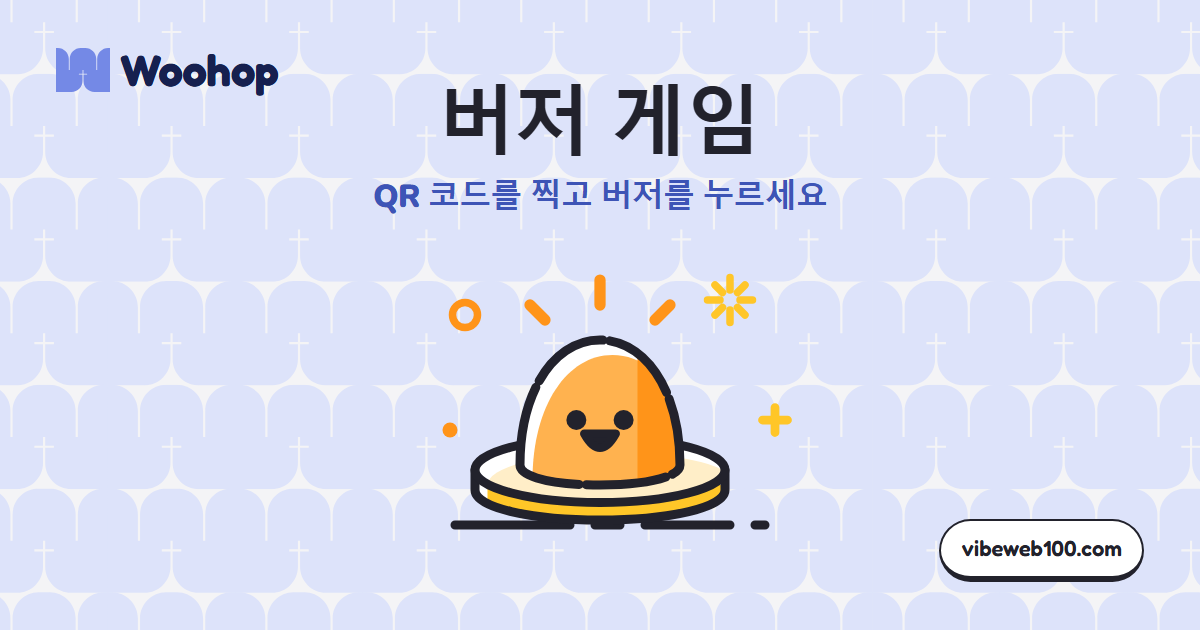
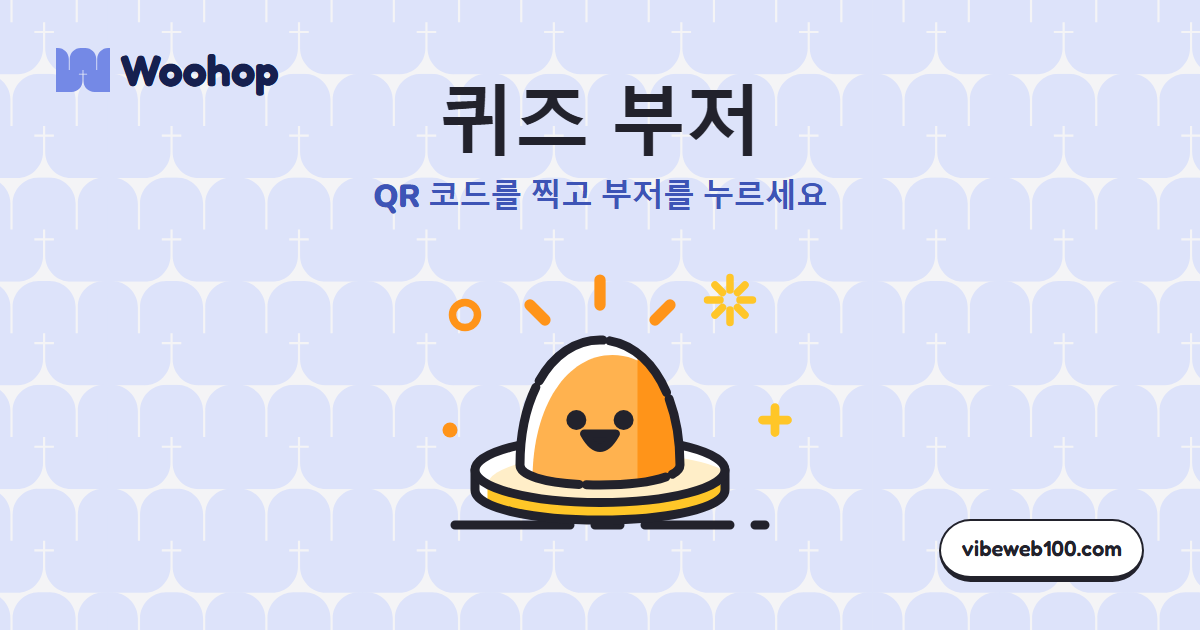
feat(seo): 日韓名稱照當地叫法（밸런스 게임、퀴즈 부저、爆弾ゲーム），倒放／竹筍／古今東西／錄音機標題補上常搜的字

Changed region(s): [[0.37, 0.1206, 0.6475, 0.2714], [0.4933, 0.2714, 0.5242, 0.3317]]

diff --git a/apps/buzzer/app/locales/ko.js b/apps/buzzer/app/locales/ko.js
@@ -6,12 +6,12 @@
 export default {
   "htmlLang": "ko",
   "ogLocale": "ko_KR",
-  "seoTitle": "버저 게임｜QR 코드만 찍으면 바로 시작, 설치·가입 불필요 - Woohop",
-  "seoDesc": "모임, 수업, 사내 행사에서 쓰는 온라인 버저입니다. 진행자가 방을 만들어 QR 코드를 공유하면 모두 휴대폰으로 스캔하고 닉네임만 입력해 참여할 수 있고, 누른 순서가 실시간으로 표시됩니다. 다운로드도 계정도 필요 없이 무료로 사용하세요.",
-  "navTitle": "버저 게임",
+  "seoTitle": "퀴즈 부저｜QR 코드만 찍으면 바로 시작, 설치·가입 불필요 - Woohop",
+  "seoDesc": "모임, 수업, 사내 행사에서 쓰는 온라인 부저입니다. 진행자가 방을 만들어 QR 코드를 공유하면 모두 휴대폰으로 스캔하고 닉네임만 입력해 참여할 수 있고, 누른 순서가 실시간으로 표시됩니다. 다운로드도 계정도 필요 없이 무료로 사용하세요.",
+  "navTitle": "퀴즈 부저",
   "navRules": "플레이 방법",
-  "heroTitle": "버저 게임: QR 코드를 찍고 버저를 누르세요",
-  "heroDesc": "모임, 수업, 사내 행사를 위한 버저입니다. 진행자가 방을 열면 나머지는 QR 코드만 스캔하면 되고, 누른 순서가 바로 표시됩니다. 설치할 앱도, 만들 계정도 없습니다.",
+  "heroTitle": "퀴즈 부저: QR 코드를 찍고 부저를 누르세요",
+  "heroDesc": "모임, 수업, 사내 행사를 위한 부저입니다. 진행자가 방을 열면 나머지는 QR 코드만 스캔하면 되고, 누른 순서가 바로 표시됩니다. 설치할 앱도, 만들 계정도 없습니다.",
   "createHeading": "방 만들기",
   "maxPlayersLabel": "예상 인원",
   "maxPlayersHint": "2~50명, 진행자 본인은 제외",
@@ -21,8 +21,8 @@ export default {
   "codeLabel": "방 코드",
   "joinButton": "참여",
   "rulesLinkText": "처음이신가요? 시작하는 방법 보기 →",
-  "rulesSeoTitle": "버저 게임 하는 법｜진행자와 참가자 사용 안내 - Woohop",
-  "rulesSeoDesc": "버저 게임 전체 안내: 진행자가 방을 만들고 문제를 내고 진행하는 방법, 참가자가 QR 코드로 들어오는 방법, 인원 제한과 새로고침·연결 끊김 시의 동작까지 설명합니다.",
+  "rulesSeoTitle": "퀴즈 부저 하는 법｜진행자와 참가자 사용 안내 - Woohop",
+  "rulesSeoDesc": "퀴즈 부저 전체 안내: 진행자가 방을 만들고 문제를 내고 진행하는 방법, 참가자가 QR 코드로 들어오는 방법, 인원 제한과 새로고침·연결 끊김 시의 동작까지 설명합니다.",
   "rulesHeading": "플레이 방법",
   "rulesFacts": [
     [
@@ -42,7 +42,7 @@ export default {
   "rulesHowSteps": [
     "진행자가 방을 만들면 화면에 방 번호와 QR 코드가 나와요.",
     "모두 휴대폰으로 QR 코드를 찍고 아바타와 닉네임을 정해 입장하면, 진행자가 「게임 시작」을 눌러요.",
-    "진행자가 문제를 읽고 「버저 시작」을 누르면 3초 카운트다운 뒤에 모두의 버튼에 불이 들어와요.",
+    "진행자가 문제를 읽고 「부저 시작」을 누르면 3초 카운트다운 뒤에 모두의 버튼에 불이 들어와요.",
     "누른 순서대로 순위가 매겨져요. 가장 빠른 사람이 답하면 진행자가 「초기화 / 다음 문제」를 눌러요."
   ],
   "rulesLeadHeading": "진행 요령",
@@ -50,10 +50,10 @@ export default {
   "rulesLeadSteps": [
     "진행자 화면을 크게 띄우면 다 같이 순위를 보면서 더 신나요.",
     "문제를 미리 입력하고 「문제 보여주기」를 누르면 모두의 휴대폰에 문제가 떠요.",
-    "작은 상품이나 점수 규칙을 걸면 버저 싸움이 훨씬 치열해져요."
+    "작은 상품이나 점수 규칙을 걸면 부저 싸움이 훨씬 치열해져요."
   ],
   "rulesBack": "← 게임으로 돌아가기",
-  "rulesIntro": "진행자가 문제를 내면 모두의 휴대폰이 버저가 됩니다. 누르는 순서대로 바로 순위가 나와서 누가 제일 빨랐는지 한눈에 보여요.",
+  "rulesIntro": "진행자가 문제를 내면 모두의 휴대폰이 부저가 됩니다. 누르는 순서대로 바로 순위가 나와서 누가 제일 빨랐는지 한눈에 보여요.",
   "joinTitle": "방 참여",
   "nicknameLabel": "닉네임",
   "avatarLabel": "아바타 고르기",
@@ -91,13 +91,13 @@ export default {
   "kickedTitle": "진행자가 회원님을 방에서 내보냈습니다",
   "kickedDesc": "실수라면 진행자에게 말씀하세요. 방 코드를 다시 입력하면 들어올 수 있습니다.",
   "lobbyWaitTitle": "진행자가 시작하기를 기다리는 중",
-  "lobbyWaitDesc": "들어온 사람이 아래에 표시됩니다. 진행자가 「게임 시작」을 누르면 버저가 열립니다.",
+  "lobbyWaitDesc": "들어온 사람이 아래에 표시됩니다. 진행자가 「게임 시작」을 누르면 부저가 열립니다.",
   "roomStartedTitle": "게임이 이미 시작됐습니다",
   "roomStartedDesc": "진행자가 이미 게임을 시작해서 이 방은 새로 들어올 수 없습니다. 진행자에게 확인해 보세요.",
   "questionLabel": "문제",
-  "questionPlaceholder": "여기에 문제를 입력하고, 읽어 준 다음 「버저 시작」을 누르세요",
+  "questionPlaceholder": "여기에 문제를 입력하고, 읽어 준 다음 「부저 시작」을 누르세요",
   "showQuestionButton": "문제 보여주기",
-  "startButton": "버저 시작",
+  "startButton": "부저 시작",
   "resetButton": "초기화 / 다음 문제",
   "rankingHeading": "누른 순서",
   "noBuzzYet": "아직 아무도 누르지 않았습니다",
@@ -105,11 +105,11 @@ export default {
   "waitingDesc": "휴대폰을 들고 기다리세요. 문제는 여기에 표시됩니다.",
   "questionHeading": "문제",
   "readyTitle": "준비하세요",
-  "readyDesc": "진행자가 다 읽으면 버저를 누르세요.",
+  "readyDesc": "진행자가 다 읽으면 부저를 누르세요.",
   "buzzButton": "누르기!",
   "buzzedTitle": "눌렀습니다. 결과를 기다리는 중",
   "notBuzzedTitle": "아직 누르지 않았습니다",
-  "buzzClosedHint": "이번 판은 아직 버저가 열리지 않았습니다",
+  "buzzClosedHint": "이번 판은 아직 부저가 열리지 않았습니다",
   "countdownTitle": "준비",
   "countdownDesc": "카운트다운이 끝나면 누를 수 있습니다",
   "hostCountdown": "{n} 후 시작",
@@ -128,7 +128,7 @@ export default {
   "roomExpiredDesc": "오랫동안 사용하지 않아 자동으로 정리됐습니다. 진행자에게 새 방을 만들어 달라고 하세요.",
   "errorTitle": "문제가 발생했습니다",
   "errorDesc": "페이지를 새로고침하고 다시 시도해 주세요.",
-  "backHome": "버저 홈으로",
+  "backHome": "부저 홈으로",
   "createFailed": "방을 만들지 못했습니다. 다시 시도해 주세요.",
   "joinCodeInvalid": "방 코드는 영문·숫자 네 자리입니다. 다시 확인해 주세요.",
   "nicknameRequired": "먼저 닉네임을 입력해 주세요."

diff --git a/apps/warmup/games/bomb/app/locales/ja.js b/apps/warmup/games/bomb/app/locales/ja.js
@@ -6,20 +6,20 @@ export default {
   htmlLang: 'ja',
   ogLocale: 'ja_JP',
 
-  seoTitle: '時限爆弾｜スマホ1台を回すアイスブレイク。爆発したときに持っていた人の負け',
+  seoTitle: '爆弾ゲーム｜スマホ1台を回すアイスブレイク。爆発したときに持っていた人の負け',
   seoDesc:
     '小グループ、ユースグループ、家族の集まり向けのアイスブレイク。スマホ1台がそのまま爆弾になります。画面に出たお題をその場でやって、「完了」を押して隣の人へ。いつ爆発するかは誰にも分かりません。持っていた人がそのラウンドの負けです。質問とアクション、合わせて90問を収録。自分たちのお題も追加できます。ダウンロードも登録も不要、ページを開くだけ。',
-  rulesSeoTitle: '時限爆弾 — 遊び方',
+  rulesSeoTitle: '爆弾ゲームのルール・遊び方',
   rulesSeoDesc:
     '爆発までの時間の決め方、お題のカテゴリーの選び方、自分でお題を足す方法、そして始める前に言っておく三つのこと。',
 
-  navTitle: '時限爆弾',
+  navTitle: '爆弾ゲーム',
   navRules: '遊び方',
   rulesLinkText: '初めて？　まずはこちら →',
   langSwitchLabel: '言語を切り替える',
   themeToggleLabel: 'ライト／ダークを切り替える',
 
-  heroTitle: '時限爆弾：お題をやったら、すぐ隣へ',
+  heroTitle: '爆弾ゲーム：お題をやったら、すぐ隣へ',
   heroDesc:
     '全員でスマホ1台。それがそのまま爆弾です。お題が出たら、持っている人がその場でやって「完了」を押し、隣の人に渡す。いつ爆発するかは誰にも分かりません。そのとき持っていた人が、このラウンドの負けです。',
 
@@ -54,7 +54,7 @@ export default {
   // ---------- 帶領的步驟（全站共用的 Leader，跟竹筍竹筍蹦蹦出同一套）----------
   // 每個畫面就是一步：[標題, 照著念]。進行中那一步手機在大家手上傳，不放步驟頭
   lead: {
-    setup: ["お題を選ぶ","時限爆弾をやります！まず、質問に答えるか、アクションをするか、両方にするかを選んでください。"],
+    setup: ["お題を選ぶ","爆弾ゲームをやります！まず、質問に答えるか、アクションをするか、両方にするかを選んでください。"],
     rules: ["ルール説明","このスマホが爆弾です。画面にお題が出たら、持っている人はその場でやって「完了」を押し、隣の人に渡します。いつ爆発するかは誰にもわかりません。爆発したときに持っていた人の負け！"],
     boom: ["誰の負け？","爆弾を持っていたのは誰？負けた人は本音・ランダム・罰ゲームから選んで、スロットを回してね！"],
   },
@@ -96,7 +96,7 @@ export default {
   leaveCancel: '続ける',
 
   // ---------- 遊び方ページ ----------
-  rulesTitle: '時限爆弾の遊び方',
+  rulesTitle: '爆弾ゲームの遊び方',
   rulesIntro: "スマホ1台をみんなで回します。お題が出たらその場でやって、隣へ渡すだけ。爆弾がいつ爆発するかは誰にもわかりません。持っていた人の負けです。",
   // 一眼看到的三件事：人數、時間、要準備什麼
   rulesFacts: [["人数","4〜15人"],["準備","スマホ1台、みんなで輪になる"]],

diff --git a/apps/warmup/games/orchard/app/locales/ja.js b/apps/warmup/games/orchard/app/locales/ja.js
@@ -10,7 +10,7 @@ export default {
   seoTitle: '古今東西ゲーム｜スマホがお題とリズムを出すアイスブレイク、負けたら真実か挑戦か',
   seoDesc:
     '「古今東西、イェーイ！」のかけ声のあと、司会がお題を出して、手拍子 2 回のあとに順番に答えていきます。同じ答えや、お題に合わない答えは負け。スマホがお題（果物、動物園、コンビニ……）をランダムに出し、テンポを変えられるリズムを刻んで、司会の進行を一歩ずつサポート。最後は負けた人が真実か挑戦かのスロットを回します。道具なし、ダウンロード・登録不要。',
-  rulesSeoTitle: '古今東西ゲームの遊び方｜ルールと司会の進め方',
+  rulesSeoTitle: '古今東西ゲームのルール｜やり方と司会の進め方',
   rulesSeoDesc: '古今東西ゲームのルール：人数、手拍子と答えるタイミング、負けになるとき、負けたあとどうするか、司会がそのまま読める説明文とお題の例。',
 
   navTitle: '古今東西ゲーム',
@@ -68,7 +68,7 @@ export default {
   leaveConfirm: '最初に戻る',
   leaveCancel: '続ける',
 
-  rulesTitle: '古今東西ゲームの遊び方',
+  rulesTitle: '古今東西ゲームのルールと遊び方',
   rulesIntro: '司会がお題を出し、みんなで「パン、パン、答え」のリズムで順番に答えます。同じ答え、お題に合わない答えは負け。負けたらお題を変えて、負けた人からスタート。',
   rulesFacts: [
     ['人数', '4～30 人'],

diff --git a/apps/warmup/games/bamboo/app/locales/ja.js b/apps/warmup/games/bamboo/app/locales/ja.js
@@ -9,7 +9,7 @@ export default {
   seoTitle: 'たけのこニョッキ｜スマホが名前と掛け声を用意してくれるアイスブレイク',
   seoDesc:
     'みんなでしゃがんで、たけのこに。好きなタイミングで立ち上がって「1ニョッキ」「2ニョッキ」と数字を言います。誰かと同時に立ったら、相手の名前を先に叫んだほうが勝ち。最後まで座っていた人の負け。スマホがおもしろい名前（食べ物・飲み物・動物・キャラクター）を配り、掛け声と BGM、本音か罰ゲームのスロットまで用意します。道具なし・ダウンロード不要・登録不要。',
-  rulesSeoTitle: 'たけのこニョッキの遊び方｜ルールと進行のコツ',
+  rulesSeoTitle: 'たけのこニョッキのルール｜やり方・掛け声と進行のコツ',
   rulesSeoDesc:
     'たけのこニョッキのルール：何人で遊べるか、名前の決め方、同時に立ったときどうするか、誰が負けか。進行役がそのまま読める台本つき。',
 
@@ -54,7 +54,7 @@ export default {
   leaveConfirm: '最初に戻る',
   leaveCancel: '続ける',
 
-  rulesTitle: 'たけのこニョッキの遊び方',
+  rulesTitle: 'たけのこニョッキのルールと遊び方',
   rulesIntro: 'みんなでしゃがんで、たけのこに。ひとりずつ立ち上がって数字を言います。誰かと同時に立ったら相手の名前を叫び合い、最後まで座っていた人の負けです。',
   rulesFacts: [
     ['人数', '4〜20人'],

diff --git a/apps/warmup/games/reverse/app/locales/ja.js b/apps/warmup/games/reverse/app/locales/ja.js
@@ -6,9 +6,9 @@ export default {
   htmlLang: 'ja',
   ogLocale: 'ja_JP',
 
-  seoTitle: '逆再生ゲーム｜声を逆再生して、まねして、もう一度ひっくり返して当てよう',
+  seoTitle: '逆再生ゲーム｜スマホで遊ぶ声真似ゲーム。逆再生した声をまねして、ひっくり返して当てよう',
   seoDesc:
-    '出題者がひと言録音すると、スマホが逆再生。みんなでその変な音をまねして録音し、もう一度逆再生して元の言葉を当てます。お題はスマホが出してくれる（文を作る・鼻歌・フリー）。スマホ1台を回しても、各自のスマホで早押しでも遊べます。アプリ不要・登録不要、録音はあなたのスマホから出ません。',
+    'スマホで遊べる声真似ゲーム。出題者がひと言録音すると、スマホが逆再生。みんなでその変な音をまねして録音し、もう一度逆再生して元の言葉を当てます。お題はスマホが出してくれる（文を作る・鼻歌・フリー）。スマホ1台を回しても、各自のスマホで早押しでも遊べます。アプリ不要・登録不要、録音はあなたのスマホから出ません。',
   rulesSeoTitle: '逆再生ゲームの遊び方：ルールと進行のコツ',
   rulesSeoDesc: '逆再生ゲームの遊び方：人数、お題の出し方、逆再生の音のまね方、順番に当てる・早押しの2つの遊び方、司会がそのまま読める説明つき。',
 

diff --git a/apps/match/app/locales/ko.js b/apps/match/app/locales/ko.js
@@ -3,19 +3,19 @@ export default {
   ogLocale: 'ko_KR',
 
   seoTitle:
-    '이거 아니면 저거 | 아이스브레이킹 게임, 공통점으로 자동 조 나누기',
+    '밸런스 게임 | 아이스브레이킹 게임, 공통점으로 자동 조 나누기',
   seoDesc:
     '모임, 소그룹, 사내 행사를 위한 아이스브레이킹 게임. 「동의／비동의」 양자택일 문항에 각자 휴대폰으로 답하면 답이 비슷한 사람끼리 자동으로 조가 나뉘고, 이야기할 공통 화제까지 뽑아 줍니다. 설치도 가입도 없이 QR 코드만 찍으면 끝.',
-  rulesSeoTitle: '이거 아니면 저거 — 플레이 방법',
+  rulesSeoTitle: '밸런스 게임 — 플레이 방법',
   rulesSeoDesc: '방 만드는 법, 문항 고르는 법, 조를 나누는 계산 방식.',
 
-  navTitle: '이거 아니면 저거',
+  navTitle: '밸런스 게임',
   navRules: '플레이 방법',
   langSwitchLabel: '언어 변경',
   themeToggleLabel: '밝게／어둡게 전환',
 
   heroTitle:
-    '이거 아니면 저거: 어색함 없이 공통점 찾기',
+    '밸런스 게임: 어색함 없이 공통점 찾기',
   heroDesc:
     '문항마다 제한 시간이 있고, 동의인지 비동의인지만 고르면 됩니다. 다 끝나면 자동으로 조를 나누고 이야깃거리까지 알려 줍니다.',
 
